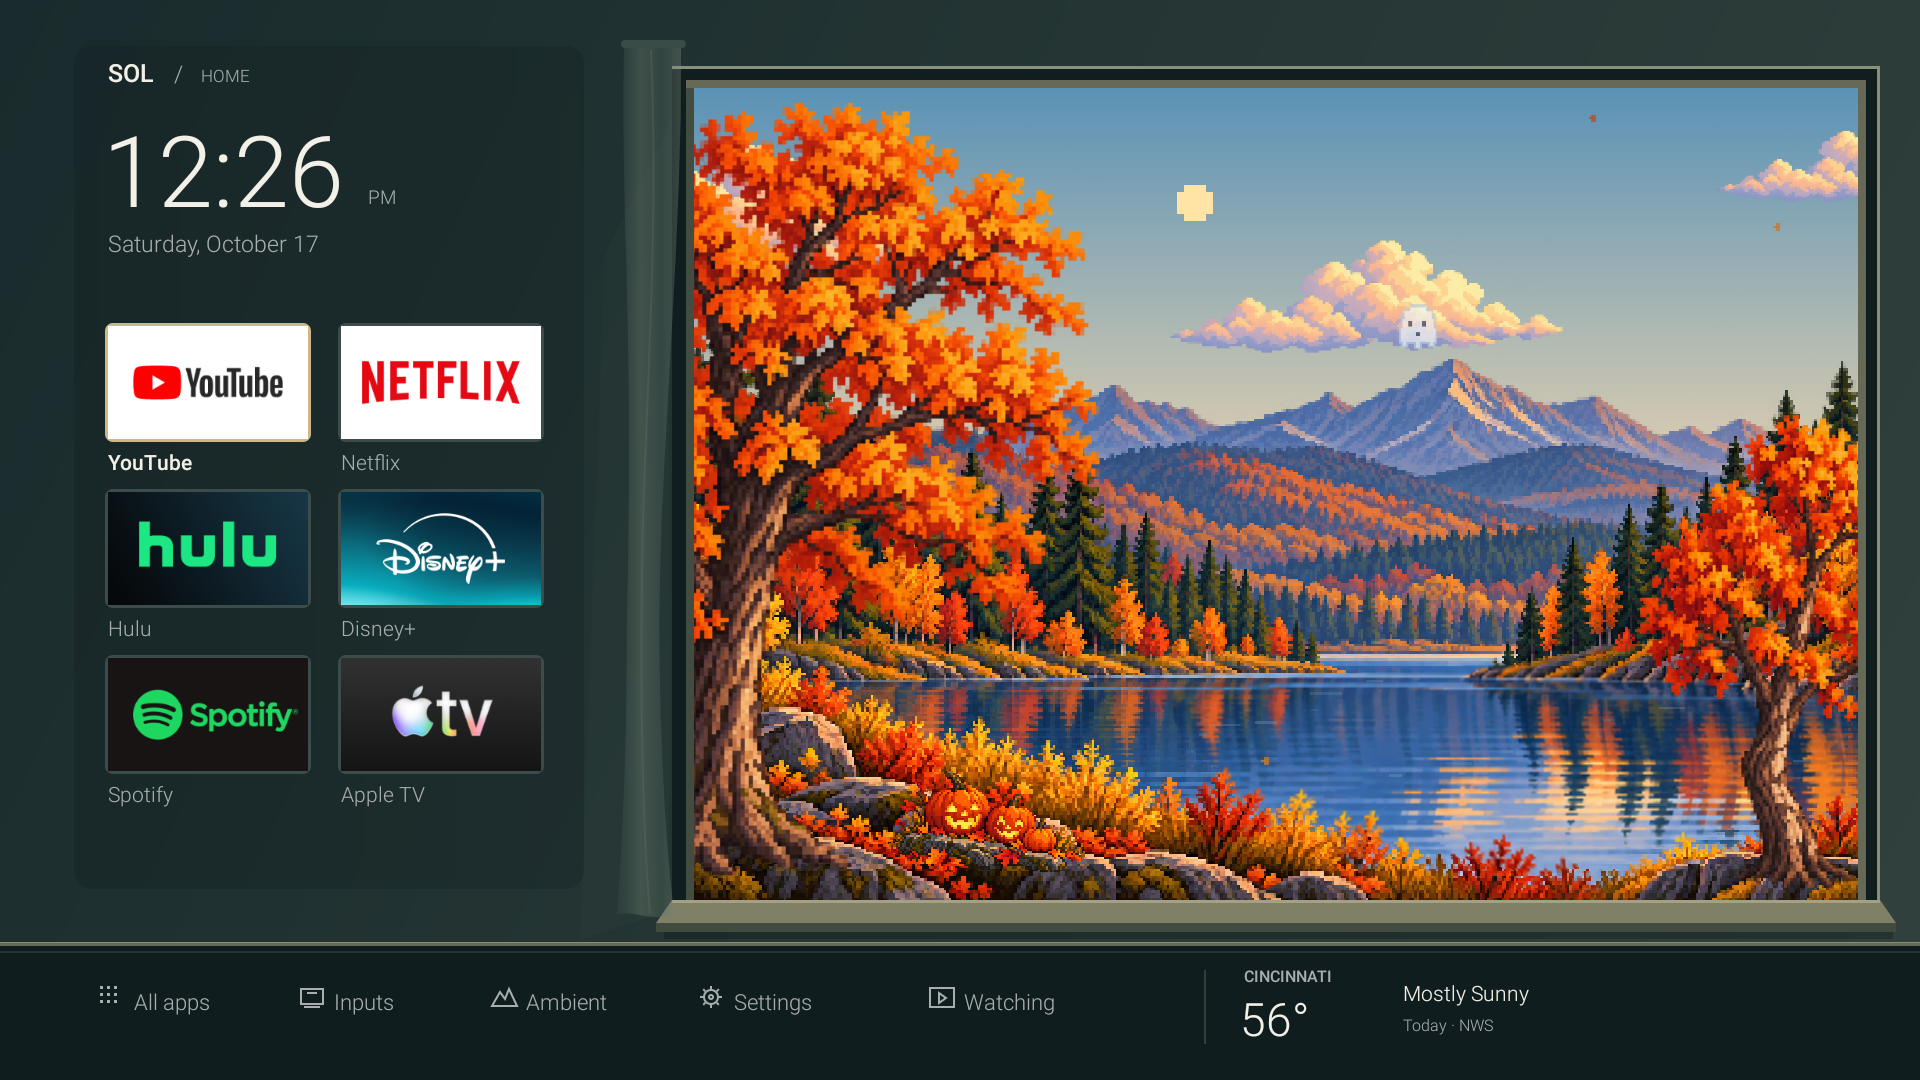
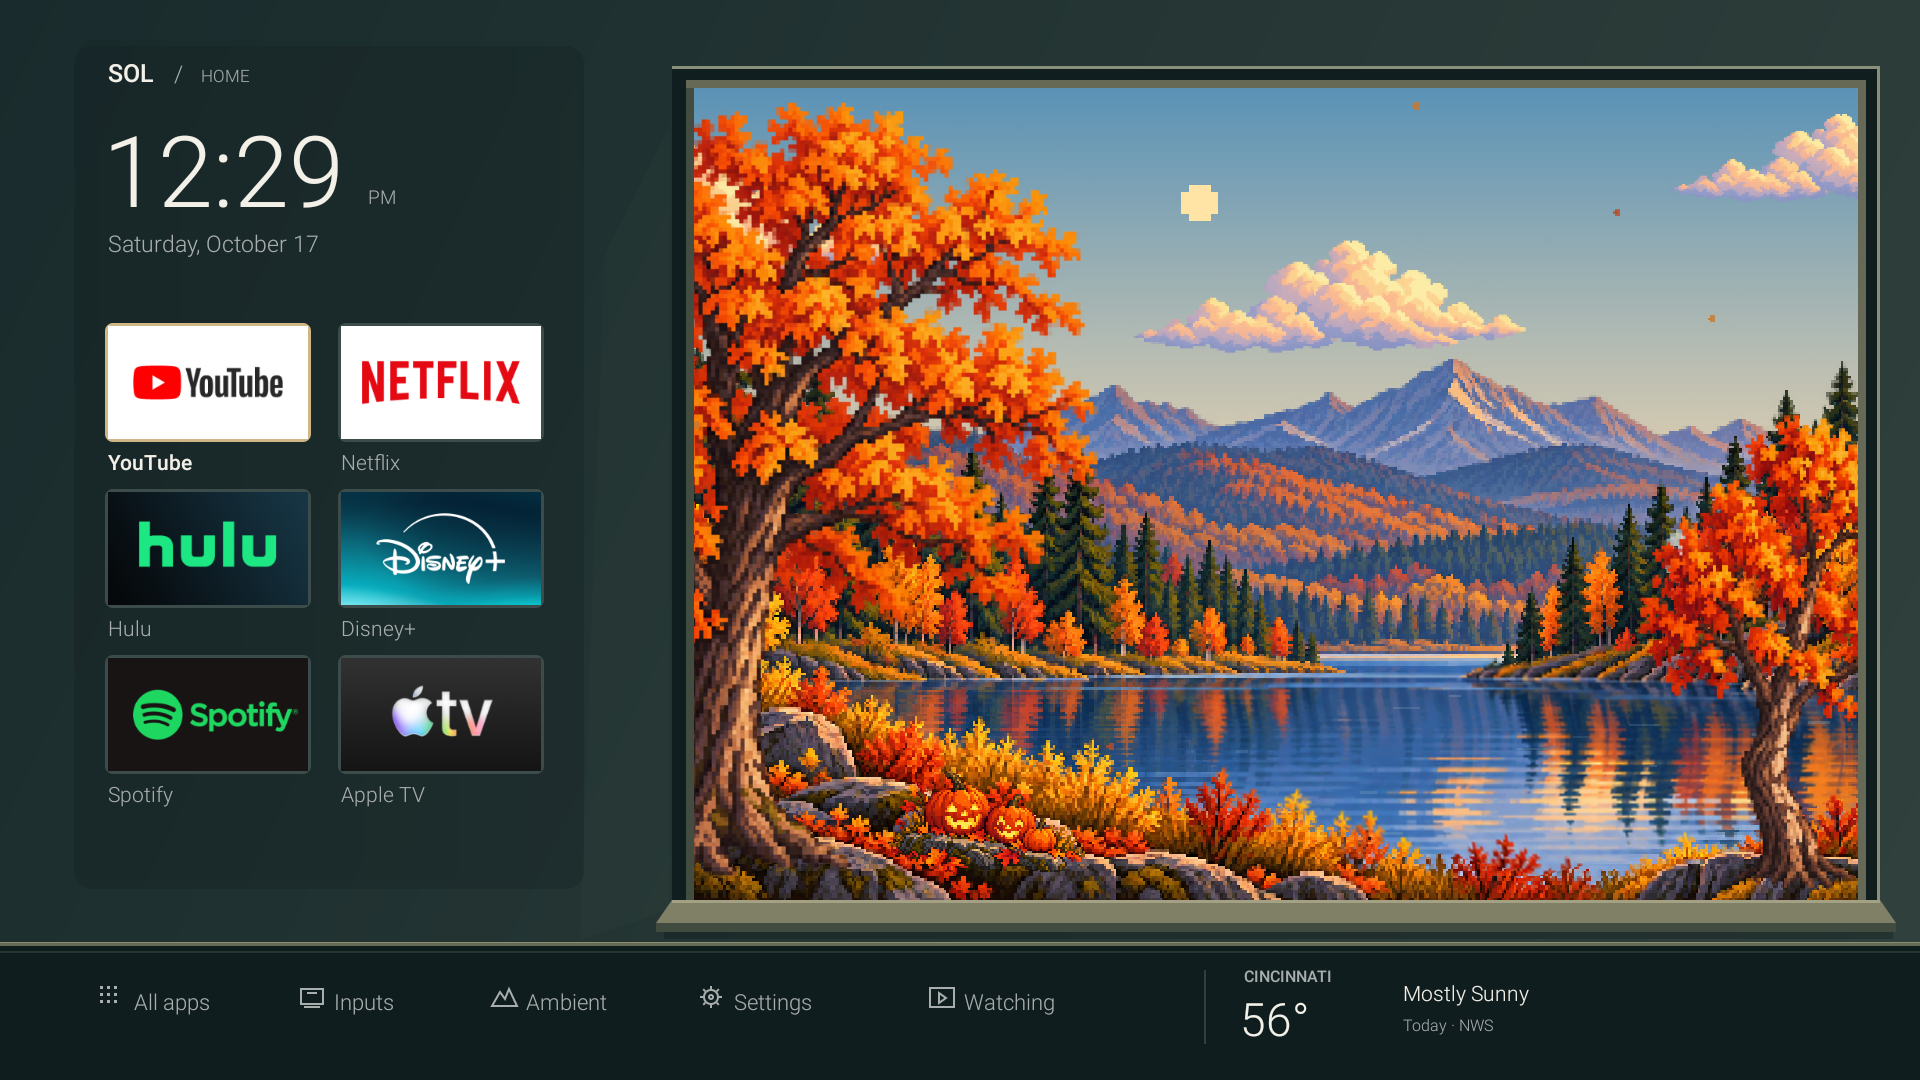
Remove the curtain from the open-window surround

diff --git a/app/src/com/griffin/solhome/MainActivity.java b/app/src/com/griffin/solhome/MainActivity.java
@@ -106,7 +106,6 @@ public class MainActivity extends Activity {
     final float[] controlX={100,300,492,700,930};
     final Shader wallLight=new LinearGradient(0,0,1920,900,0xff192b2c,0xff30403c,Shader.TileMode.CLAMP);
     final Shader railLight=new LinearGradient(72,0,577,0,0xff152323,0xff1c2e2c,Shader.TileMode.CLAMP);
-    final Shader linenLight=new LinearGradient(620,0,682,0,new int[]{0xff3c514c,0xff7e8c7c,0xff566b60,0xff8d9886},null,Shader.TileMode.CLAMP);
     HomeView(){super(MainActivity.this);setFocusable(true);setFocusableInTouchMode(true);setContentDescription("Sol Home. Use arrows to choose an app tile or bottom control, and OK to open.");}
     void text(Canvas c,String s,float x,float y,float size,int color,boolean bold){paint.setShader(null);paint.setColor(color);paint.setTextSize(size);paint.setTypeface(Typeface.create("sans-serif"+(bold?"-medium":"-light"),Typeface.NORMAL));c.drawText(s,x,y,paint);}
     void drawRoom(Canvas c){
@@ -123,10 +122,6 @@ public class MainActivity extends Activity {
       Path sill=new Path();sill.moveTo(l-22,b);sill.lineTo(r+22,b);sill.lineTo(r+38,b+23);sill.lineTo(l-38,b+23);sill.close();paint.setColor(0xff7f8066);c.drawPath(sill,paint);
       paint.setColor(0xffa3a083);c.drawRect(l-22,b,r+22,b+3,paint);paint.setColor(0xff414b40);c.drawRect(l-38,b+23,r+38,b+32,paint);
       paint.setColor(0x550b1517);c.drawRect(l-30,b+32,r+35,b+39,paint);
-      // A gathered linen edge sits entirely beside the opening, preserving the view.
-      Path curtain=new Path();curtain.moveTo(624,48);curtain.lineTo(681,48);curtain.cubicTo(683,220,662,440,660,578);curtain.cubicTo(657,700,665,840,674,914);curtain.cubicTo(654,923,635,910,617,914);curtain.cubicTo(630,735,625,648,628,568);curtain.cubicTo(633,338,620,178,624,48);curtain.close();paint.setShader(linenLight);c.drawPath(curtain,paint);paint.setShader(null);
-      paint.setColor(0x35708372);paint.setStrokeWidth(2);paint.setStyle(Paint.Style.STROKE);Path fold=new Path();fold.moveTo(651,50);fold.cubicTo(660,250,642,445,642,581);fold.cubicTo(640,728,644,847,650,914);c.drawPath(fold,paint);paint.setStyle(Paint.Style.FILL);
-      paint.setColor(0xff394c48);c.drawRoundRect(new RectF(621,40,686,48),4,4,paint);
       // The bottom controls belong to a continuous shallow console below the sill.
       paint.setColor(0xff101d1f);c.drawRect(0,944,1920,1080,paint);paint.setColor(0xff666a55);c.drawRect(0,942,1920,946,paint);
       paint.setColor(0xff8b8d70);c.drawRect(0,942,1920,943,paint);paint.setColor(0xff233631);c.drawRect(0,951,1920,953,paint);

diff --git a/docs/validation.md b/docs/validation.md
@@ -27,9 +27,11 @@ Hidden-scene check: after opening YouTube and waiting for transition settling, P
 - Native scene textures report 2,757,040 retained decoded bytes (~2.63 MiB), including ghost sprites. Total process PSS includes much more than scene textures.
 - Owner confirmed trees/clouds felt smoother after replacing snapped 12 fps movement with floating-point, vsync-paced motion at about 30 fps. This is qualitative owner feedback, not a frame-perfect input latency measurement.
 - Actual TV captures inspected at day, dusk, night, and a November date. The latter removes ghost/pumpkins. Preview timestamps affect scene lighting only and were cleared afterward.
-- Current layout capture inspected: uninterrupted open aperture, smooth curtain/room surfaces, no app-row dividers, and a bottom utility console. Final live capture includes all six installed app logos.
+- Layout capture inspected: uninterrupted open aperture, smooth room surfaces, no app-row dividers, and a bottom utility console. Final live capture includes all six installed app logos.
 - Pure Java checks pass for seasonal solar elevation, midnight darkness, dawn/dusk, Cincinnati October/November boundary, device-timezone independence, and DST continuity. They validate the intended approximation, not astronomical certification.
 - Existing Home bridge process remained running after the app update. Physical remote Home behavior was verified earlier; this visual update does not establish full-reboot startup.
+
+The 0.4.1 visual cleanup removes the curtain and its rail entirely. The updated APK was installed and the live layout inspected; scene animation and input routing are unchanged.
 
 ## Device behavior
 

diff --git a/docs/architecture.md b/docs/architecture.md
@@ -4,7 +4,7 @@
 
 The first dashboard used an Android WebView with layered HTML/CSS conservatory art. On the target TV it continuously rendered even while idle and produced poor frame timings. The maintained implementation is an Android Activity with a custom Canvas HomeView and a separate PixelSceneView clipped to the open-window aperture.
 
-HomeView draws the room, app rail, open-window reveal, sill, linen edge, and bottom console into Android's retained rendering pipeline. The opening has no sash or crossing dividers. App banners are loaded once from PackageManager into six 256x144 bitmaps. The contained window remains contained in Ambient mode.
+HomeView draws the room, app rail, open-window reveal, sill, and bottom console into Android's retained rendering pipeline. The opening has no sash or crossing dividers. App banners are loaded once from PackageManager into six 256x144 bitmaps. The contained window remains contained in Ambient mode.
 
 PixelSceneView keeps a 480x336 terrain texture, separate tree/cloud sprites, a small Halloween layer, and two tiny code-drawn ghost sprites. Total retained decoded scene bitmaps are 2,757,040 bytes. Tree/cloud sprites are first enlarged with nearest-neighbor scaling; filtered subpixel movement then avoids coarse position jumps. Rooted tree meshes deform continuously across a fine grid; cloud positions are floating point. Water reuses the terrain texture through a clipped mesh plus procedural ripples. This animates selected foreground layers, not every distant tree or physical fluid.
 

diff --git a/docs/pixel-autumn/README.md b/docs/pixel-autumn/README.md
@@ -1,6 +1,6 @@
 # Pixel Autumn — open-window scene
 
-The owner selected Pixel Autumn from the [four illustrated concepts](../design-concepts/2026-10-17/README.md). The implemented dashboard treats the landscape as a view outdoors: one uninterrupted opening, deep timber reveal/sill, a gathered linen edge, a smooth recessed app rail with no row dividers, and a shallow console for utilities and forecast. The curtain and surrounding surfaces use smooth, simple native Canvas drawing, retained separately from scene motion. No screenshot from the visual inspiration is bundled.
+The owner selected Pixel Autumn from the [four illustrated concepts](../design-concepts/2026-10-17/README.md). The implemented dashboard treats the landscape as a view outdoors: one uninterrupted opening, deep timber reveal/sill, a smooth recessed app rail with no row dividers, and a shallow console for utilities and forecast. The surrounding surfaces use smooth, simple native Canvas drawing, retained separately from scene motion. No screenshot from the visual inspiration is bundled.
 
 ![Installed open-window dashboard](../images/dashboard.png)
 

diff --git a/CHANGELOG.md b/CHANGELOG.md
@@ -2,6 +2,10 @@
 
 Repository established October 17, 2026. Earlier development stages below are supported by retained snapshots and session measurements; they were not originally Git commits. All imported history uses the actual import date.
 
+## 0.4.1 — October 17, 2026
+
+- Removed the curtain, folds, and curtain rail from the room, leaving a clear open-window surround.
+
 ## 0.4.0 — October 17, 2026
 
 - Selected Pixel Autumn from four illustrated concepts; generated separate terrain, trees, cloud, and Halloween assets with recorded prompts.
